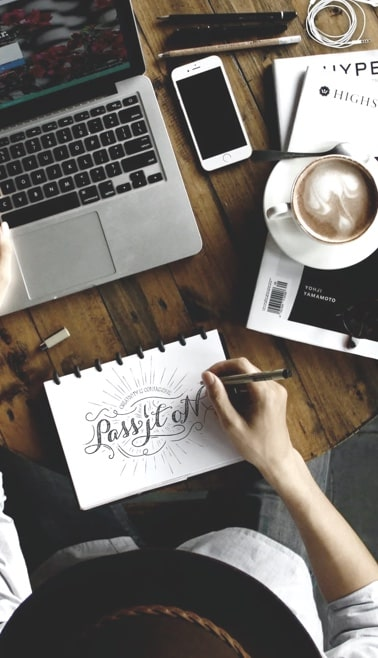
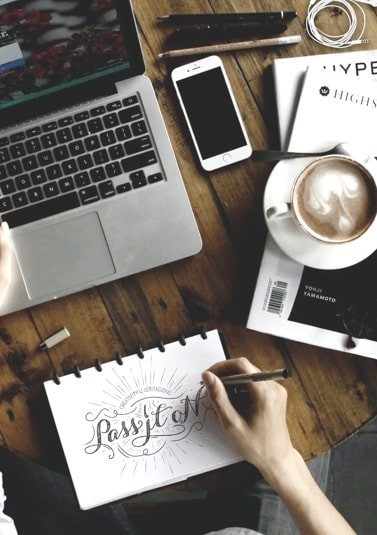
fully responsive on tablet

diff --git a/index.html b/index.html
@@ -27,7 +27,9 @@
       </div>
     </header>
     <section class="first-section">
-      <img src="./images/mobile/image-hero.jpg" />
+      <img src="./images/mobile/image-hero.jpg" alt="working people" class="mobile-img" />
+      <img src="./images/tablet/image-hero.jpg" alt="working people" class="tablet-img" />
+      <img src="./images/desktop/image-hero.jpg" alt="working people" class="desktop-img" />
       <div class="content">
         <h1>Branding & website design agency</h1>
         <p>
@@ -39,9 +41,16 @@
       </div>
     </section>
     <section class="second-section">
-      <img src="./images/mobile/image-strategic.jpg" />
+      <img src="./images/mobile/image-strategic.jpg" alt="desk layout" class="mobile-img" />
+      <img
+        src="./images/tablet/image-strategic.jpg"
+        alt="desk layout"
+        class="tablet-img"
+        style="height: auto; width: 65vw"
+      />
+      <img src="./images/desktop/image-strategic.jpg" alt="desk layout" class="desktop-img" />
       <img src="./images/desktop/bg-pattern-wave-red.svg" class="svg_element" />
-      <div class="content">
+      <div class="content content_tablet">
         <h2><span style="color: #f94f4f">Design</span> is strategic</h2>
         <p>
           A well-crafted design strategy consistently produces desired outcomes and brand awareness.
@@ -52,53 +61,66 @@
       </div>
     </section>
     <section class="third-section">
-      <div class="content">
-        <h2>Our approach for creating a winning brand</h2>
-        <div>
-          <h3>Brand strategy</h3>
-          <p class="numbers">01</p>
+      <div class="content content_third_section">
+        <div class="title"><h2>Our approach for creating a winning brand</h2></div>
+        <div class="listing">
+          <div>
+            <h3>Brand strategy</h3>
+            <p class="numbers">01</p>
+          </div>
+          <p>
+            Brand strategy is critical for long-term success. Outshining competitors and capturing
+            the target audience are key.
+          </p>
+          <div>
+            <h3>Brand design</h3>
+            <p class="numbers">02</p>
+          </div>
+          <p>
+            Keeping the brand design unique and meaningful helps in communicating the brand’s
+            timeless value effectively.
+          </p>
+          <div>
+            <h3>Web design</h3>
+            <p class="numbers">03</p>
+          </div>
+          <p>
+            A beautifully crafted website is the best tool for brand awareness, and ultimately
+            results in increased revenues.
+          </p>
         </div>
-        <p>
-          Brand strategy is critical for long-term success. Outshining competitors and capturing the
-          target audience are key.
-        </p>
-        <div>
-          <h3>Brand design</h3>
-          <p class="numbers">02</p>
-        </div>
-        <p>
-          Keeping the brand design unique and meaningful helps in communicating the brand’s timeless
-          value effectively.
-        </p>
-        <div>
-          <h3>Web design</h3>
-          <p class="numbers">03</p>
-        </div>
-        <p>
-          A beautifully crafted website is the best tool for brand awareness, and ultimately results
-          in increased revenues.
-        </p>
       </div>
     </section>
     <section class="fourth-section">
       <div class="slider-container">
         <div class="slider-content">
           <div class="slider-content__h2"><h2>Brand naming & guidelines</h2></div>
-          <img src="./images/mobile/image-slide-1.jpg" class="slider-image" />
+          <img src="./images/mobile/image-slide-1.jpg" class="slider-image mobile-img" />
+          <img src="./images/tablet/image-slide-1.jpg" class="slider-image tablet-img" />
+          <img src="./images/desktop/image-slide-1.jpg" class="slider-image desktop-img" />
         </div>
         <div class="slider-content">
           <div class="slider-content__h2"><h2>Brand identity & merchandise</h2></div>
-          <img src="./images/mobile/image-slide-2.jpg" class="slider-image" />
+          <img src="./images/mobile/image-slide-2.jpg" class="slider-image mobile-img" />
+          <img src="./images/tablet/image-slide-2.jpg" class="slider-image tablet-img" />
+          <img src="./images/desktop/image-slide-2.jpg" class="slider-image desktop-img" />
         </div>
         <div class="slider-content">
           <div class="slider-content__h2"><h2>Brand identity & web design</h2></div>
-          <img src="./images/mobile/image-slide-3.jpg" class="slider-image" />
+          <img src="./images/mobile/image-slide-3.jpg" class="slider-image mobile-img" />
+          <img src="./images/tablet/image-slide-3.jpg" class="slider-image tablet-img" />
+          <img src="./images/desktop/image-slide-3.jpg" class="slider-image desktop-img" />
         </div>
       </div>
       <div class="slider-buttons">
         <button id="prev-button"><img src="./images/desktop/icon-arrow-previous.svg" /></button>
         <button id="next-button"><img src="./images/desktop/icon-arrow-next.svg" /></button>
       </div>
+      <img
+        src="./images/desktop/bg-pattern-wavy-white.svg"
+        alt="white svg element"
+        class="white_svg"
+      />
     </section>
     <section class="fifth-section">
       <div class="content">

diff --git a/styles/index.css b/styles/index.css
@@ -1,11 +1,16 @@
-.first-section img {
-  width: 100%;
-  height: auto;
-}
-
 .content {
   margin: 0 22px;
   position: relative;
+}
+
+.tablet-img,
+.desktop-img {
+  display: none;
+}
+
+.mobile-img {
+  width: 100%;
+  height: auto;
 }
 
 h1 {
@@ -145,22 +150,161 @@ p {
   padding: 20px 0 50px 0;
 }
 
+.white_svg {
+  display: none;
+}
+
 /* For tablets */
 @media (min-width: 768px) and (max-width: 1023px) {
-  /* CSS rules for tablets go here */
+  .mobile-img,
+  .desktop-img {
+    display: none;
+  }
+
+  .tablet-img {
+    display: block;
+    position: relative;
+    width: 60vw;
+    height: auto;
+  }
+
+  .first-section {
+    display: flex;
+    flex-direction: row-reverse;
+    align-items: center;
+  }
+
+  .content {
+    width: 40vw;
+    padding-left: 3vw;
+  }
+
+  .button {
+    width: 50%;
+  }
+
+  .second-section {
+    display: flex;
+    align-items: center;
+    height: fit-content;
+    background-color: white;
+  }
+  .second-section p {
+    width: 35vw;
+  }
+
+  .svg_element {
+    width: 10vw;
+    height: 3vh;
+    left: -35px;
+    top: -100px;
+    z-index: 1;
+  }
+
+  .content_tablet {
+    left: -100px;
+    top: -32px;
+    max-width: 60vw;
+    background-color: #191921;
+    padding: 86px;
+  }
+
+  .content_tablet h2 {
+    width: 30vw;
+    top: -20px;
+  }
+
+  .third-section {
+    background-color: white;
+  }
+
+  .content_third_section {
+    display: flex;
+    width: 90vw;
+    padding: 5vh 30vw 10vh 30vw;
+  }
+
+  .title {
+    color: #191921;
+    position: absolute;
+    padding: 50px;
+    z-index: 1;
+    width: 40vw;
+    left: 0;
+    top: -40px;
+  }
+
+  .listing {
+    height: fit-content;
+    background-color: #f94f4f;
+    position: relative;
+    top: -290px;
+    left: 0;
+    padding: 5vh 30vw 10vh 15vw;
+  }
+
+  .slider-content__h2 {
+    background-color: #191921;
+    max-width: 30vw;
+    display: inline-block;
+    padding: 10px 80px 80px 60px;
+    position: absolute;
+    top: -490px;
+    z-index: 1;
+    display: flex;
+    align-items: center;
+  }
+
+  .slider-content {
+    background-color: white;
+    top: -10px;
+  }
+
+  .slider-image {
+    max-width: 60vw;
+    height: 500px;
+    position: absolute;
+    right: 0;
+    top: -490px;
+  }
+
+  .slider-container {
+    display: flex;
+    flex-direction: row-reverse;
+  }
+
+  .slider-buttons {
+    top: -260px;
+    z-index: 1;
+    left: 35px;
+  }
+
+  .white_svg {
+    display: block;
+    position: relative;
+    z-index: 1;
+    top: -400px;
+    left: 40vw;
+    width: 10vw;
+  }
+
+  .fourth-section {
+    height: fit-content;
+  }
+
+  .fifth-section {
+    top: -50px;
+  }
 }
 
 /* For laptops and desktops with small screens */
-@media (min-width: 1024px) and (max-width: 1279px) {
-  /* CSS rules for laptops and desktops with small screens go here */
-}
+@media (min-width: 1024px) {
+  .mobile-img,
+  .tablet-img {
+    display: none;
+  }
 
-/* For laptops and desktops with medium screens */
-@media (min-width: 1280px) and (max-width: 1439px) {
-  /* CSS rules for laptops and desktops with medium screens go here */
-}
-
-/* For laptops and desktops with large screens */
-@media (min-width: 1440px) {
-  /* CSS rules for laptops and desktops with large screens go here */
+  .desktop-img {
+    display: block;
+  }
 }
